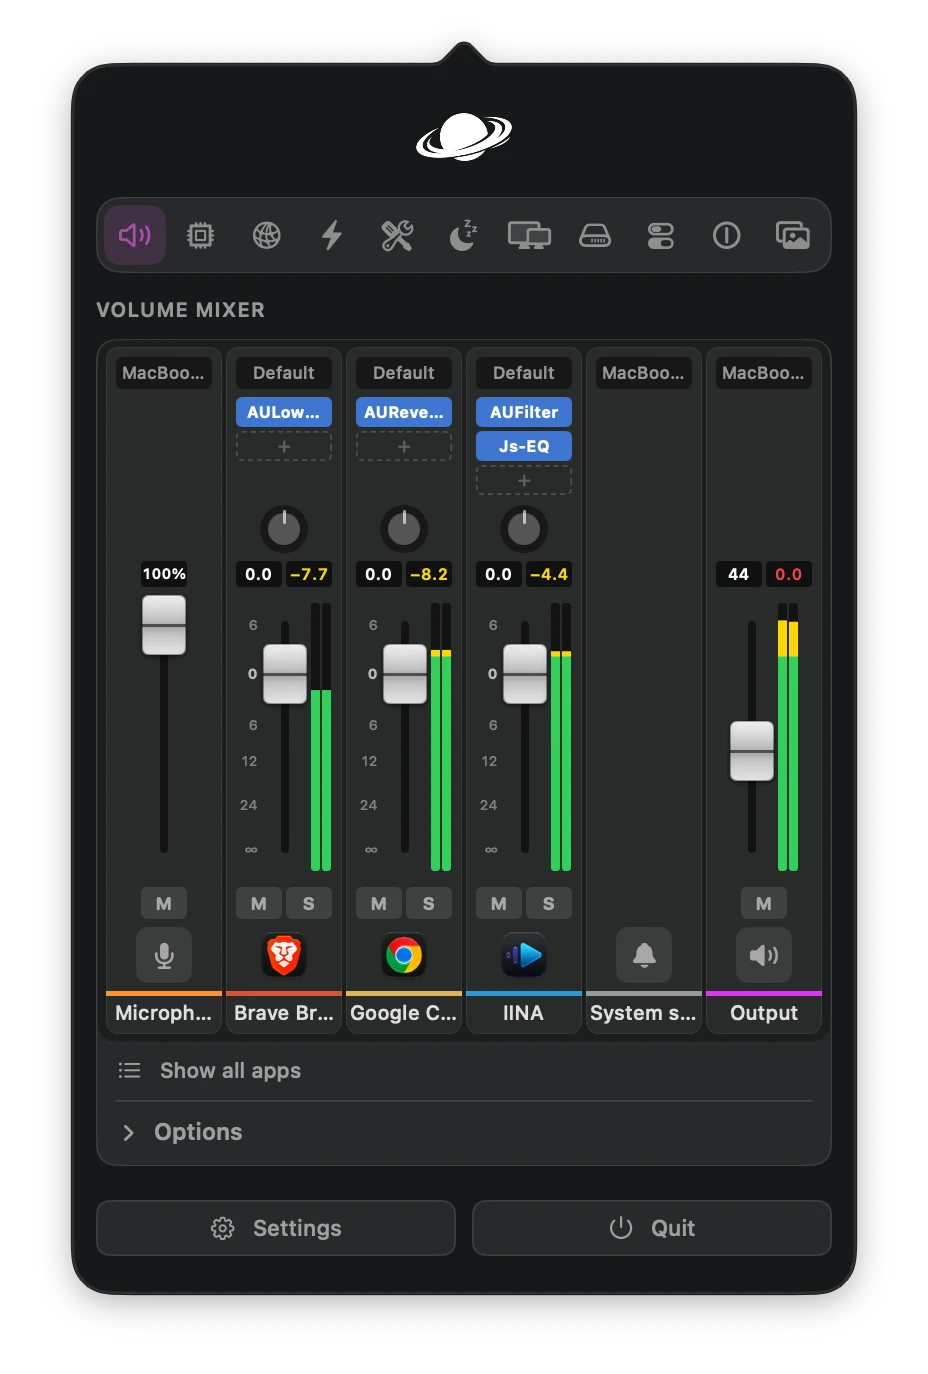
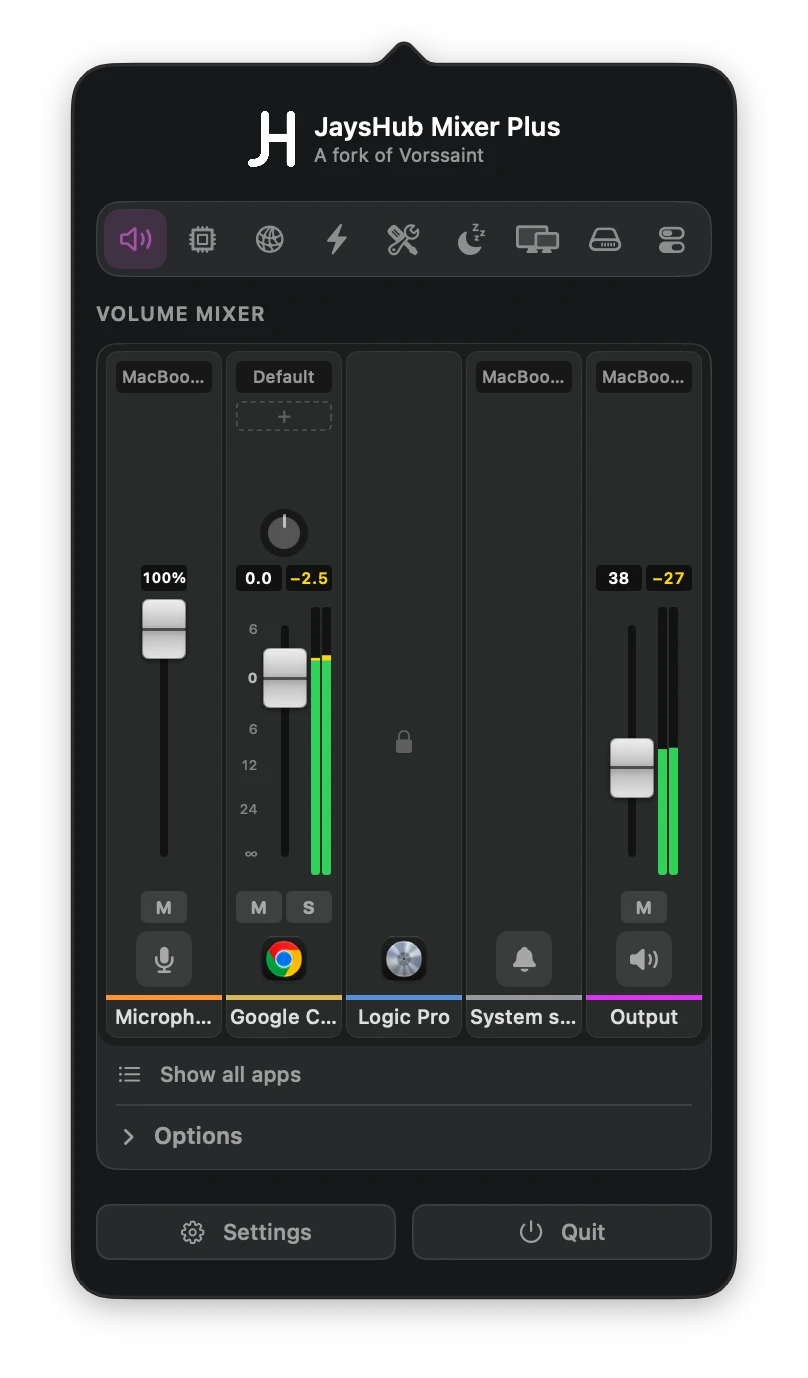
docs: describe JaysHub Mixer Plus in the README
The fork section carries the new name, a current screenshot of the
mixer desk and one of the Stuck keys page, and covers the stuck-key
watch, the output meter, effects backup, the fork's own name and
where to support it and the original project.

The rows of the Stuck keys page get icons of their own; without one a
settings row shows the app's mark.

diff --git a/Sources/Vorssaint/UI/Settings/StuckKeySettingsCard.swift b/Sources/Vorssaint/UI/Settings/StuckKeySettingsCard.swift
@@ -41,11 +41,14 @@ struct StuckKeySettingsCard: View {
             }
             if enabled {
                 Divider()
-                picker(strings.aloneTitle, selection: $aloneSeconds, choices: StuckKeyDetector.Thresholds.aloneChoices)
-                picker(strings.longTitle, selection: $longHoldSeconds,
+                picker("command", strings.aloneTitle, selection: $aloneSeconds,
+                       choices: StuckKeyDetector.Thresholds.aloneChoices)
+                picker("timer", strings.longTitle, selection: $longHoldSeconds,
                        choices: StuckKeyDetector.Thresholds.longHoldChoices)
-                picker(strings.keyTitle, selection: $keySeconds, choices: StuckKeyDetector.Thresholds.keyChoices)
-                SettingsRow(symbol: nil, title: strings.autoRelease, caption: strings.autoReleaseCaption) {
+                picker("keyboard", strings.keyTitle, selection: $keySeconds,
+                       choices: StuckKeyDetector.Thresholds.keyChoices)
+                SettingsRow(symbol: "arrow.up.to.line", title: strings.autoRelease,
+                            caption: strings.autoReleaseCaption) {
                     Toggle(strings.autoRelease, isOn: $autoRelease).labelsHidden().toggleStyle(.switch)
                 }
                 Divider()
@@ -58,8 +61,8 @@ struct StuckKeySettingsCard: View {
         .onChange(of: keySeconds) { watch.syncWithPreferences() }
     }
 
-    private func picker(_ title: String, selection: Binding<Int>, choices: [Int]) -> some View {
-        SettingsRow(symbol: nil, title: title) {
+    private func picker(_ symbol: String, _ title: String, selection: Binding<Int>, choices: [Int]) -> some View {
+        SettingsRow(symbol: symbol, title: title) {
             Picker(title, selection: selection) {
                 ForEach(choices, id: \.self) { seconds in
                     Text(seconds == 0 ? strings.off : MixerPlusStrings.duration(seconds, l10n.language)).tag(seconds)

diff --git a/README.md b/README.md
@@ -2,29 +2,57 @@
 > **This is an unofficial fork of [Vorssaint](https://github.com/vorssaint/vorssaint-utils).** It is not made,
 > endorsed or supported by the Vorssaint project. Please do not ask the original maintainer for help with it.
 
-# What this fork adds
+# JaysHub Mixer Plus
 
 This fork keeps everything in Vorssaint and rebuilds its volume mixer as a small mixing desk, with features
-brought over from another project for a personal per app mixer I built. The rest of the app is unchanged.
+brought over from another project for a personal per app mixer I built. It also adds a watch for stuck keys.
+The rest of the app is unchanged.
 
 AI DISCLAIMER: AI has been used to assist with the developing of this fork.
 
 <p align="center">
-  <img src="docs/fork/mixer-desk.png" width="460" alt="The volume mixer as a desk of channel strips: three apps with Audio Unit effects, pan knobs, faders and stereo meters, beside the microphone, system sounds and main output">
+  <img src="docs/fork/mixer-desk.png" width="400" alt="The JaysHub Mixer Plus panel: the volume mixer as a desk of channel strips for the microphone, two apps, system sounds and the main output. A playing app shows its fader, pan knob and stereo meter at −2.5 dB, and the output's meter reads lower, at −27 dB, because its fader is turned down">
 </p>
+
+## What's different
+
+### The mixer is a mixing desk
 
 | Addition | What it does |
 |---|---|
-| **Mixing-desk layout** | The mixer tab is a row of vertical channel strips: microphone on the left, one strip per app, system sounds and the main output on the right. The panel widens as apps appear and scrolls sideways past eight strips. |
-| **Audio Unit effects** | Add any installed Audio Unit effect to an app, in a chain, before its fader. Plugins load out of process, so a crashing plugin cannot take the app down. Chains and plugin settings are saved per app. |
+| **Channel strips** | The mixer tab is a row of vertical strips: microphone on the left, one strip per app, system sounds and the main output on the right. The panel widens as apps appear and scrolls sideways past eight strips. |
+| **Audio Unit effects** | Add any installed Audio Unit effect to an app, in a chain, before its fader. Plugins load out of process, so a crashing plugin cannot take the app down. Chains and plugin settings are saved per app and included in settings backup. |
 | **Pan** | A pan knob on every app. |
 | **Solo** | Silence every other app with one key. Never saved, so it cannot be left on by accident. |
-| **Level meters** | A stereo meter and a held peak readout on every playing app, measured after effects, fader and pan, plus a meter on the main output. |
+| **Level meters** | A stereo meter and a held peak readout on every playing app, measured after its effects, fader and pan. The main output has one too, after its own fader. |
 | **Recently active apps** | With "Hide inactive apps" on, an app stays listed for a chosen time after it goes quiet (10 seconds to 5 minutes), and one button shows every open app again. |
 | **Fader feel** | 100% sits about four fifths of the way up, leaving the rest for the boost to 200%. A drag near the mark lands on it; a double-click resets to it. |
 
-Meters and effects run only while they are needed: a meter measures only while its strip is on screen, and an app
-at 100% with no pan or effects is still left completely untouched, as in Vorssaint.
+Meters and effects run only while they are needed: a meter measures only while its strip is on screen, and an
+app at 100% with no pan or effects is still left completely untouched, as in Vorssaint.
+
+### A watch for stuck keys
+
+<p align="center">
+  <img src="docs/fork/stuck-keys.png" width="600" alt="The Stuck keys page in Settings: a switch, three adjustable rules, automatic release for keys held by software, and a log of recent incidents">
+</p>
+
+Tells you when a key stays down with nobody holding it, and offers to release it. It recognises:
+
+- a modifier a program pressed and never released;
+- a modifier that reads as down with neither of its keys pressed;
+- a modifier held with no other input, or held for a very long stretch;
+- an ordinary key held far too long.
+
+It reads whether keys are down about once a second and installs no event tap, so it cannot slow typing, and it
+never sees what you type. Each incident is logged with the time, the reason and the app that was in front, which
+makes it possible to tell a faulty keyboard from misbehaving software. Find it in Settings under Utilities.
+
+### Its own name
+
+The app is called JaysHub Mixer Plus, with its own mark and icon, and says so throughout. It credits Vorssaint
+in its header, in About and on its Support page, where the original project's donation link sits below this
+fork's.
 
 ## Status
 
@@ -32,18 +60,23 @@ at 100% with no pan or effects is still left completely untouched, as in Vorssai
 - **Not yet covered:** apps routed to AirPlay ignore pan and effects, and the Dynamic Island and the Settings
   window still show the original mixer layout.
 - **Effects are stereo.** On an output with more than two channels they apply to the front pair.
+- **Translations of the new text are machine-written** and have not been checked by native speakers.
 
 ## Build
 
 ```sh
 git clone https://github.com/ThisIsJaayB/vorssaint-utils.git
 cd vorssaint-utils
-git switch mixer-plus
 ./build.sh --dev --install
 ```
 
-This builds the separate Developer variant, which installs beside an official Vorssaint without replacing it.
-Xcode Command Line Tools are the only requirement.
+This builds and installs JaysHub Mixer Plus. Xcode Command Line Tools are the only requirement.
+
+## Support
+
+If the additions here are useful to you, you can [buy me a coffee](https://buymeacoffee.com/jayshub). Most of
+this app is the work of the Vorssaint project, so please consider
+[supporting them](https://buymeacoffee.com/vorssaint) too.
 
 ## Licence and names
 
